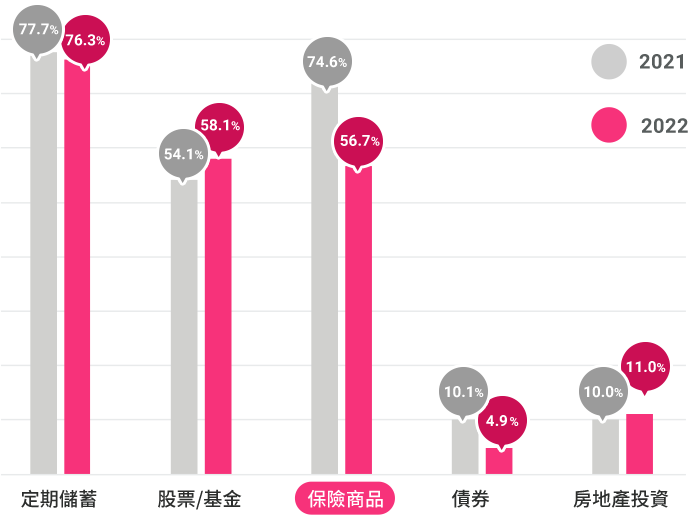
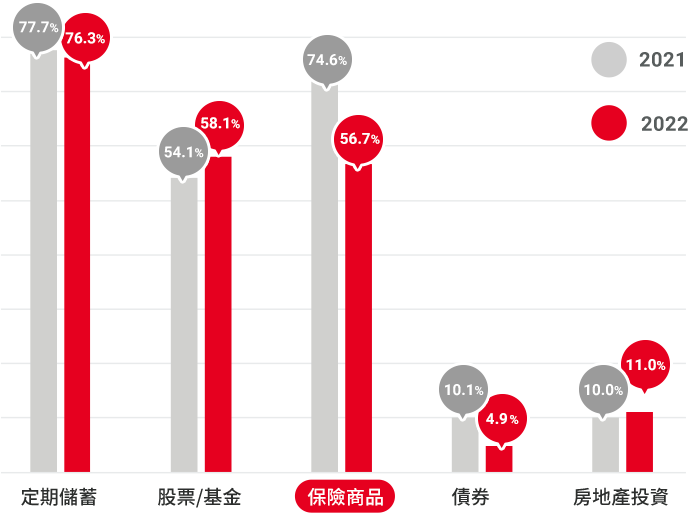
fix:  修改

diff --git a/source/js/index.js b/source/js/index.js
@@ -6,6 +6,15 @@ $(window).resize(function () {
   checkWid(windowSize);
 });
 
+function mobile() {
+  try {
+    document.createEvent("TouchEvent");
+    return true;
+  } catch (e) {
+    return false;
+  }
+}
+
 function verifyNumber(number) {
   const numberRules = /^[0-9]*$/;
   return numberRules.test(number);
@@ -362,7 +371,6 @@ $(document).ready(function () {
       $("#infoLeftArrow").addClass("disabled");
     },
     onChanged: (event) => {
-      console.log(event.page.index);
       if (event.page.index >= 0) {
         $("#infoNowPage").text(`0${event.page.index + 1}`);
         $(".section02 .title-box").fadeOut();
@@ -398,7 +406,7 @@ $(document).ready(function () {
     } else if (!$("#phone").val() || !verifyNumber($("#phone").val())) {
       sweetAlertError("請填寫電話及確認格式正確");
       return;
-    } else if (!$("#verification").val()) {
+    } else if (!$("#code").val()) {
       sweetAlertError("請輸入驗證碼");
       return;
     } else if (!$("#personalInformation").is(":checked")) {
@@ -409,13 +417,20 @@ $(document).ready(function () {
       return;
     }
     $.ajax({
-      url: "",
+      url: "Home/Index",
       type: "post",
       data: {
         name: $("#name").val(),
-        gender: $("input[name='gender']:checked").val(),
+        gender: Number($("input[name='gender']:checked").val()),
         email: $("#email").val(),
         phone: $("#phone").val(),
+        deviceType: mobile() ? 2 : 1,
+      },
+      beforeSend: function (xhr) {
+        xhr.setRequestHeader(
+          "requestverificationtoken",
+          $('input:hidden[name="__RequestVerificationToken"]').val()
+        );
       },
       success: function (e) {
         console.log(e);
@@ -425,7 +440,7 @@ $(document).ready(function () {
           $("input[name='gender']").prop("checked", false);
           $("#email").val("");
           $("#phone").val("");
-          $("#verification").val("");
+          $("#code").val("");
           $("#personalInformation").prop("checked", false);
           $("#checkBtn").prop("checked", false);
         }
@@ -456,6 +471,27 @@ $(document).ready(function () {
   $(".section01 .btn").on("click", scrollToReserve);
   $(".section03 .btn").on("click", scrollToReserve);
   $(".section06 .btn").on("click", scrollToReserve);
+
+  $("#toSection3").on("click", () => {
+    $("html,body")
+      .stop()
+      .animate(
+        {
+          scrollTop: $(".section03").offset().top - 50,
+        },
+        700
+      );
+  });
+  $("#toSection6").on("click", () => {
+    $("html,body")
+      .stop()
+      .animate(
+        {
+          scrollTop: $(".section06").offset().top - 100,
+        },
+        700
+      );
+  });
 
   $(".section07 .tab").on("click", function () {
     const index = $(this).index();

diff --git a/source/sass/all.sass b/source/sass/all.sass
@@ -43,10 +43,11 @@ header
       padding: 0 10px
       font-size: 1rem
       color: $gray05
+      cursor: pointer
       +dib
       & + p.txt
         margin-right: 80px
-    figure.share
+    a.share
       width: 80px
       margin: 0 10px
       cursor: pointer
@@ -62,7 +63,7 @@ header
         font-size: 0.8rem
         & + p.txt
           margin-right: 10px
-      figure.share
+      a.share
         width: 50px
         margin: 0 5px
   +rwd(768px)
@@ -97,6 +98,7 @@ html
   +rwd(768px)
     font-size: 16px
   article
+    overflow: hidden
     section.banner
       background-color: $red04
       .main
@@ -643,7 +645,7 @@ html
               box-sizing: border-box
               display: inline-block
             .txt
-              min-height: 120px
+              min-height: 180px
               margin-bottom: 30px
               font-size: 1.05rem
               text-align: left
@@ -787,6 +789,9 @@ html
                   width: 180px
                   height: 40px
                   background-color: #eee
+                  +dib
+                img
+                  width: 180px
                   +dib
                 p.reload
                   padding-left: 1rem
@@ -1068,6 +1073,8 @@ html
             padding: 30px 0
             font-size: 0
             text-align: left
+            display: block
+            text-decoration: none
             & + .item
               border-top: 1px solid $gray03
             .item-title
@@ -1133,6 +1140,9 @@ html
               font-size: 0.9rem
               color: $gray06
               padding-left: 1rem
+            a
+              text-decoration: underline
+              color: $red02
       +rwd(768px)
         .container
           .title

diff --git a/source/sass/_variable.sass b/source/sass/_variable.sass
@@ -1,5 +1,5 @@
 $red01: #cf232e
-$red02: #f6486a
+$red02: #ED1D2E
 $red03: #e85549
 $red04: #fce4e4
 $red05: #fac8c9
